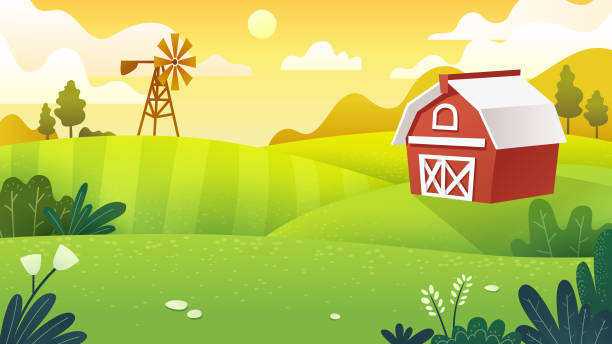
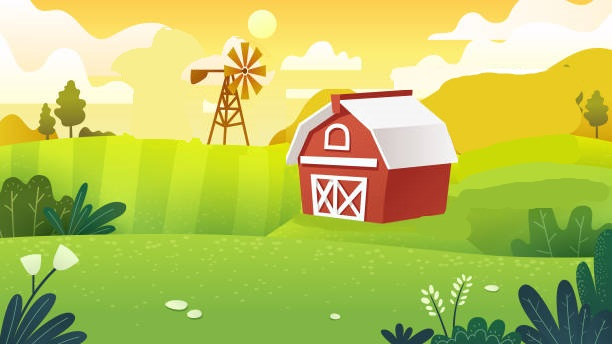
added score, added next animal, added lose and win animations, fixed bacground and fixed bug (disappear mid air)

diff --git a/index.js b/index.js
@@ -3,19 +3,58 @@ const ctx = canvas.getContext("2d");
 // const dtSlider = document.getElementById("slider");
 const objects = [];
 
+let palyerWon = false;
+let palyerLose = false;
+let totalScore = 0; 
+let fontSize = 20;
+let opacity = 0;
+const maxFontSize = 100;
+
 const g_const = 20;
 const friction = 0.7;
 const density = 5E-4;
 
 // Load the background image
 const backgroundImage = new Image();
-backgroundImage.src = './pics/background.jpg';
+backgroundImage.src = './pics/background.png';
+let cropWidth = 0;
+let cropHeight = 0;
+let startX = 0;
+let startY = 0;
+backgroundImage.onload = function() {
+    const imgAspectRatio = backgroundImage.width / backgroundImage.height;
+    const canvasAspectRatio = canvas.width / canvas.height;
 
-const ballsImgs = {20: "./pics/img1.png", 40: "./pics/img2.png", 60: "./pics/img3.png", 80: "./pics/img4.png", 100: "./pics/img5.png", 120: "./pics/img6.png", 140: "./pics/img7.png", 160: "./pics/img8.png", 180: "./pics/img9.png", 200: "./pics/img10.png", 220: "./pics/img11.png"}
-const ballsNumber = 10;
+    if (canvasAspectRatio < imgAspectRatio) {
+        // If the canvas is wider (relative to height) than the image, crop the height
+        cropHeight = backgroundImage.height;
+        cropWidth = cropHeight * canvasAspectRatio;
+        startX = (backgroundImage.width - cropWidth) / 2;
+        startY = 0;
+    } else {
+        // Otherwise, crop the width
+        cropWidth = backgroundImage.width;
+        cropHeight = cropWidth / canvasAspectRatio;
+        startX = 0;
+        startY = (backgroundImage.height - cropHeight) / 2;
+    }
+
+    console.log(imgAspectRatio, cropWidth, cropHeight, startX, startY)
+};
+
+// Load the background image
+const fenceImg = new Image();
+fenceImg.src = './pics/fence.png';
 
 // bottom: canvas.height - 10
-const container = {top: 0, bottom: 0.75* canvas.height, left: 0.15*canvas.width, right: 0.85*canvas.width}
+const container = {top: 50, bottom: 0.75* canvas.height, left: 0.15*canvas.width, right: 0.85*canvas.width}
+
+let maxBallSize = Math.min(container.right - container.left, container.bottom - container.top)
+const ballsImgs = {1: "./pics/img1.png", 2: "./pics/img2.png", 3: "./pics/img3.png", 4: "./pics/img4.png", 5: "./pics/img5.png", 6: "./pics/img6.png", 7: "./pics/img7.png", 8: "./pics/img8.png", 9: "./pics/img9.png", 10: "./pics/img10.png", 11: "./pics/img11.png"}
+const ballsNumber = 10;
+
+let nextBall = 1;
+
 let newBallLaunched = true; 
 let mousePosition = { x: 0, y: 0 };
 let isMouseDown = false;
@@ -62,9 +101,13 @@ function updateMousePosition(event) {
 }
 
 class Circle {
-    constructor(x = 500, y = 400, r = 10, m = 0, isNew = false, imgSrc = null, velocity = { x: 0, y: 0 }, Ft = { x: 0, y: 0 }) {
-        this.r = r;
-        this.m = m;
+    constructor(id, x = 500, y = 400, r = 10, m = 0, isNew = false, imgSrc = null, velocity = { x: 0, y: 0 }, Ft = { x: 0, y: 0 }) {
+        this.id = id;
+        if (this.id == 11){
+            palyerWon = true;
+        }
+        this.r = 0.4 * this.id/11 * maxBallSize
+        this.m = this.r;
         this.Ft = Ft;
         // this.color = ballsColors[r];
         this.position = { x: x, y: y };
@@ -72,13 +115,12 @@ class Circle {
         this.terminalVelocity = Math.round(Math.sqrt((2 * this.m * g_const) / (this.r * density)));
         this.isNew = isNew;
         this.image = new Image();
-        this.image.src = ballsImgs[r];;
+        this.image.src = ballsImgs[this.id];;
         if (imgSrc) {
             this.image.src = imgSrc;
         }
 
-        let score = document.getElementById('score');
-        score.innerText = parseInt(score.textContent) + r / 10;
+        totalScore += this.id;
     }
 
     move(dt) {
@@ -127,13 +169,15 @@ function gravity(obj) {
     //     obj.Ft.y = force * (dy / distance);
     // console.log(obj.isNew)
     if (obj.isNew){
-        // obj.Ft.x = 0
-        // obj.Ft.y = 0
+        obj.Ft.x = 0
+        obj.Ft.y = 0
+        obj.velocity.x = 0
+        obj.velocity.y = 0
         if (!isFingerDown && fingerPressed){
             fingerPressed = false;
             obj.isNew = false;
             newBallLaunched = true;
-            obj.position.y += 2*obj.r;
+            obj.position.y += 2*(obj.r+1);
             obj.Ft.x = obj.r;
         }
         else if (!isMouseDown || isFingerDown) {
@@ -141,7 +185,7 @@ function gravity(obj) {
         }else{
             obj.isNew = false;
             newBallLaunched = true;
-            obj.position.y += 2*obj.r;
+            obj.position.y += 2*(obj.r+1);
             obj.Ft.x = obj.r;
         }
     } else {
@@ -160,9 +204,9 @@ function bounce(obj) {
         obj.velocity.x = -(obj.velocity.x * (1 - friction));
         obj.position.x = obj.position.x - obj.r < container.left ? container.left + obj.r : container.right - obj.r;
     }
-    if (obj.position.y - obj.r < container.top){
-        console.log("Lose")
-        window.pause = true;
+    if (obj.position.y + obj.r < container.top){
+        // console.log("Lose")
+        palyerLose = true;
     }
     // Vertical bounce
     // if (obj.position.y - obj.r < container.top || container.bottom < obj.position.y + obj.r) {
@@ -192,7 +236,10 @@ function distance(obj1, obj2) {
 
 function resolveCollision(obj1, obj2) {
 
-    if (obj1.r == obj2.r){
+    if (obj1.r == obj2.r && !obj1.isNew && !obj2.isNew){
+        if (obj1.isNew || obj2.isNew){
+            console.log("TADAAA", obj1.isNew, obj2.isNew)
+        }
         let index = objects.indexOf(obj1);
         if (index > -1) { // only splice array when item is found
             objects.splice(index, 1); // 2nd parameter means remove one item only
@@ -206,10 +253,11 @@ function resolveCollision(obj1, obj2) {
         let ballFt = {x: obj1.Ft.x + obj2.Ft.x, y: obj2.Ft.y + obj2.Ft.y};
         let ballV = {x: Math.floor((obj1.velocity.x + obj2.velocity.x)/2), y: Math.floor((obj1.velocity.y + obj2.velocity.y)/2)};
         // do{
-        let newCircle = new Circle(xpos, ypos, obj1.r + 20, obj1.r + 20, false, null, ballV);
+        let newCircle = new Circle(obj1.id + 1, xpos, ypos, obj1.r + 20, obj1.r + 20, false, null, ballV);
         objects.push(newCircle);
         // }while(!isCircleValid(newCircle, objects))
         // objects.push(newCircle);
+        // palyerWon = true;
     }
     const coefficientOfRestitution = 1- friction;
   
@@ -255,14 +303,14 @@ function randomInt(min, max) {
 
 function createCircle(x = 0, y = 0, r=0) {
     if (x && y && r){
-        return new Circle(x, y, r, r);
+        return new Circle(2, x, y, r, r);
     }
     r = window.params.radius == -1 ? randomInt(20, 90) : window.params.radius;
     x = randomInt(container.left + r + 1, container.right - r - 1);
     // console.log(x);
     y = window.params.height == -1 ? randomInt(r + 1, canvas.height - r - 1) : window.params.height;
     
-    return new Circle(x, y, r, r);
+    return new Circle(2, x, y, r, r);
 }
 
 function init() {
@@ -304,11 +352,26 @@ function animate() {
         objects.push(createCircle());
         window.add = false;
     }
-    // console.log(newBallLaunched, isMouseDown)
+    // console.log(objects.length)
+    // for (let obj of objects) {
+    //     console.log(obj)
+    // }
+
     if (newBallLaunched && !isMouseDown){
+
         newBallLaunched = false;
+        let attemptCount = 0;
         // console.log(container.left, container.right, (container.left + container.right)/2)
-        objects.push(new Circle((container.left + container.right)/2, 100, 20, 20, true));
+        // randomInt(1,2)
+        let newBall = new Circle(nextBall, (container.left + container.right)/2, 100, 100, 100, true);
+        // console.log(!isCircleValid(newBall, objects))
+        while(!isCircleValid(newBall, objects)){
+            attemptCount++;
+            // console.log(attemptCount)
+            newBall = new Circle(nextBall, (container.left + container.right)/2, 100-attemptCount, 100, 100, true);
+        }
+        nextBall = randomInt(1,Math.min(3, objects.length))
+        objects.push(newBall);
     }
 
     // console.log(objects)
@@ -317,7 +380,53 @@ function animate() {
     // const dt = 10**-((10-(window.slider.value))/3); 
     const dt = logValue;
     ctx.clearRect(0, 0, canvas.width, canvas.height);
-    ctx.drawImage(backgroundImage, 0, 0, canvas.width, canvas.height);
+
+    // Draw the cropped image on the canvas
+    ctx.drawImage(backgroundImage, startX, startY, cropWidth, cropHeight, 0, 0, canvas.width, canvas.height);
+
+    // Draw the cropped image on the canvas
+    ctx.drawImage(fenceImg, startX, startY, cropWidth, cropHeight, 0, 120, canvas.width, canvas.height);
+
+    if (palyerWon){
+        ctx.globalAlpha = opacity; // Set opacity
+        ctx.fillStyle = "#265136"; // Set text color
+        ctx.font = `bold ${fontSize+4}px Helvetica`; // Set font and size
+        ctx.textAlign = 'center';
+        ctx.textBaseline = 'middle';
+        ctx.fillText("You won!", canvas.width / 2, canvas.height / 5); // Draw the text
+        ctx.fillStyle = "#3dba6b"; // Set text color
+        ctx.font = `bold ${fontSize}px Helvetica`; // Set font and size
+        ctx.fillText("You won!", canvas.width / 2, canvas.height / 5); // Draw the text
+
+        // Update font size and opacity
+        if (fontSize < maxFontSize) {
+            fontSize += 2;
+        }
+        if (opacity < 1) {
+            opacity += 0.02;
+        }
+    }
+
+    if (palyerLose){
+        window.pause = true;
+        ctx.globalAlpha = opacity; // Set opacity
+        ctx.fillStyle = "#7a0909"; // Set text color
+        ctx.font = `bold ${fontSize+4}px Helvetica`; // Set font and size
+        ctx.textAlign = 'center';
+        ctx.textBaseline = 'middle';
+        ctx.fillText("You Lost", canvas.width / 2, canvas.height / 5); // Draw the text
+        ctx.fillStyle = "#e31212"; // Set text color
+        ctx.font = `bold ${fontSize}px Helvetica`; // Set font and size
+        ctx.fillText("You Lost", canvas.width / 2, canvas.height / 5); // Draw the text
+
+        // Update font size and opacity
+        if (fontSize < maxFontSize) {
+            fontSize += 2;
+        }
+        if (opacity < 1) {
+            opacity += 0.02;
+        }
+    }
 
     for (let obj of objects) {
         if (!window.pause) {
@@ -326,6 +435,20 @@ function animate() {
         }
         // console.log(obj)
         obj.draw();
+    }
+
+    ctx.fillStyle = "#555555"; // Set text color
+    ctx.font = `bold 20px Helvetica`; // Set font and size
+    ctx.fillText(`Score: ${totalScore}`, 10, 25);
+
+    let nextBallImage = new Image();
+    nextBallImage.src = ballsImgs[nextBall];
+    if (nextBallImage && nextBallImage.complete) {
+        
+        // ctx.textAlign = 'center';
+        // ctx.textBaseline = 'middle';
+        ctx.fillText("Next:", 10, 60);
+        ctx.drawImage(nextBallImage, 70, 35, 20*2, 20*2);
     }
     window.requestAnimationFrame(animate);
 }

diff --git a/index.html b/index.html
@@ -4,7 +4,7 @@
     <button id="pauseBtn" onclick="pauseSim()">Pause</button>
 </div>
 <br/>
-<div>
+<!-- <div>
     <input type="text" id="ballsNum" placeholder="balls number">
 
     <input type="text" id="radius" placeholder="radius">
@@ -13,11 +13,11 @@
 
     <button id="start"  onclick="start()">Init</button>
     <button id="start"  onclick="addBall()">Add Ball</button>
-</div>
+</div> -->
 
-<div>
+<!-- <div>
     Score: <label type="text" id="score">0</label>
-</div>
+</div> -->
 
 <canvas id="canvas"></canvas>
 
@@ -31,8 +31,8 @@
         window.addEventListener('resize', resizeCanvas, false);
 
         function resizeCanvas() {
-            canvas.width = window.innerWidth-40;
-            canvas.height = window.innerHeight-100;
+            canvas.width = window.innerWidth-20;
+            canvas.height = window.innerHeight-60;
         }
 
         resizeCanvas();
@@ -48,19 +48,19 @@
             }
     }
 
-    function start() {
-        const num = parseInt(document.getElementById('ballsNum').value);
-        const radius = parseInt(document.getElementById('radius').value);
-        const height = parseInt(document.getElementById('height').value);
+    // function start() {
+    //     const num = parseInt(document.getElementById('ballsNum').value);
+    //     const radius = parseInt(document.getElementById('radius').value);
+    //     const height = parseInt(document.getElementById('height').value);
         
-        // console.log(num, radius, height)
-        window.restart = true;
-        window.params = {num : (num ? num : 10), radius: (radius? radius: -1), height: (height? height: -1)}
-    }
+    //     // console.log(num, radius, height)
+    //     window.restart = true;
+    //     window.params = {num : (num ? num : 10), radius: (radius? radius: -1), height: (height? height: -1)}
+    // }
 
-    function addBall() {
-        window.add = true;
-    }
+    // function addBall() {
+    //     window.add = true;
+    // }
 
 </script>
 
